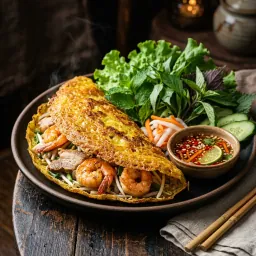
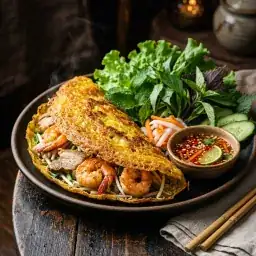
perf: code splitting with React.lazy, terser minification, vendor chunking, compress banhxeo

diff --git a/src/App.jsx b/src/App.jsx
@@ -1,16 +1,18 @@
-import React, { useState } from 'react';
+import React, { useState, lazy, Suspense } from 'react';
 import { useLanguage } from './context/LanguageContext';
 import Header from './components/Header';
-import PolicyModal from './components/PolicyModal';
 import Hero from './components/Hero';
-import About from './components/About';
-import Menu from './components/Menu';
-import Reviews from './components/Reviews';
-import MapSection from './components/MapSection';
-import { MapPin, Phone, Mail, Clock } from 'lucide-react';
-import PromoLayout from './components/promo/PromoLayout';
-import DishPromo from './components/promo/DishPromo';
 import SEO from './components/SEO';
+import { MapPin, Phone, Mail, Clock } from 'lucide-react';
+
+// Lazy load below-the-fold components for smaller initial bundle
+const About = lazy(() => import('./components/About'));
+const Menu = lazy(() => import('./components/Menu'));
+const Reviews = lazy(() => import('./components/Reviews'));
+const MapSection = lazy(() => import('./components/MapSection'));
+const PolicyModal = lazy(() => import('./components/PolicyModal'));
+const PromoLayout = lazy(() => import('./components/promo/PromoLayout'));
+const DishPromo = lazy(() => import('./components/promo/DishPromo'));
 
 function MainApp() {
   const { language, t } = useLanguage();
@@ -21,13 +23,13 @@ function MainApp() {
   const isPromoPage = cleanPath.startsWith('/promo/') || cleanPath.includes('/promo');
   const promoDish = isPromoPage ? cleanPath.split('/').filter(Boolean).pop() : null;
 
-  console.log('[Routing Debug] path:', path, 'cleanPath:', cleanPath, 'isPromoPage:', isPromoPage, 'promoDish:', promoDish);
-
   if (isPromoPage && promoDish) {
     return (
-      <PromoLayout>
-        <DishPromo dish={promoDish} />
-      </PromoLayout>
+      <Suspense fallback={null}>
+        <PromoLayout>
+          <DishPromo dish={promoDish} />
+        </PromoLayout>
+      </Suspense>
     );
   }
   
@@ -47,10 +49,12 @@ function MainApp() {
       {/* Main content */}
       <main>
         <Hero onMenuScroll={handleMenuScroll} />
-        <About />
-        <Menu />
-        <Reviews />
-        <MapSection />
+        <Suspense fallback={null}>
+          <About />
+          <Menu />
+          <Reviews />
+          <MapSection />
+        </Suspense>
       </main>
 
 
@@ -139,11 +143,15 @@ function MainApp() {
           </div>
         </div>
       </footer>
-      <PolicyModal 
-        isOpen={openPolicy !== null} 
-        policyType={openPolicy} 
-        onClose={() => setOpenPolicy(null)} 
-      />
+      {openPolicy !== null && (
+        <Suspense fallback={null}>
+          <PolicyModal 
+            isOpen={true} 
+            policyType={openPolicy} 
+            onClose={() => setOpenPolicy(null)} 
+          />
+        </Suspense>
+      )}
     </div>
   );
 }

diff --git a/vite.config.js b/vite.config.js
@@ -8,5 +8,30 @@ export default defineConfig({
     port: 8080,
     strictPort: false,
     open: true // tự động mở trình duyệt khi chạy
-  }
+  },
+  build: {
+    // Improve CSS delivery
+    cssCodeSplit: true,
+    // Minimize output size
+    minify: 'terser',
+    terserOptions: {
+      compress: {
+        drop_console: true,
+        drop_debugger: true,
+        pure_funcs: ['console.log', 'console.debug', 'console.info'],
+      },
+    },
+    rollupOptions: {
+      output: {
+        manualChunks(id) {
+          if (id.includes('node_modules/react-dom') || id.includes('node_modules/react/')) {
+            return 'vendor-react';
+          }
+          if (id.includes('node_modules/lucide-react')) {
+            return 'vendor-icons';
+          }
+        },
+      },
+    },
+  },
 })
